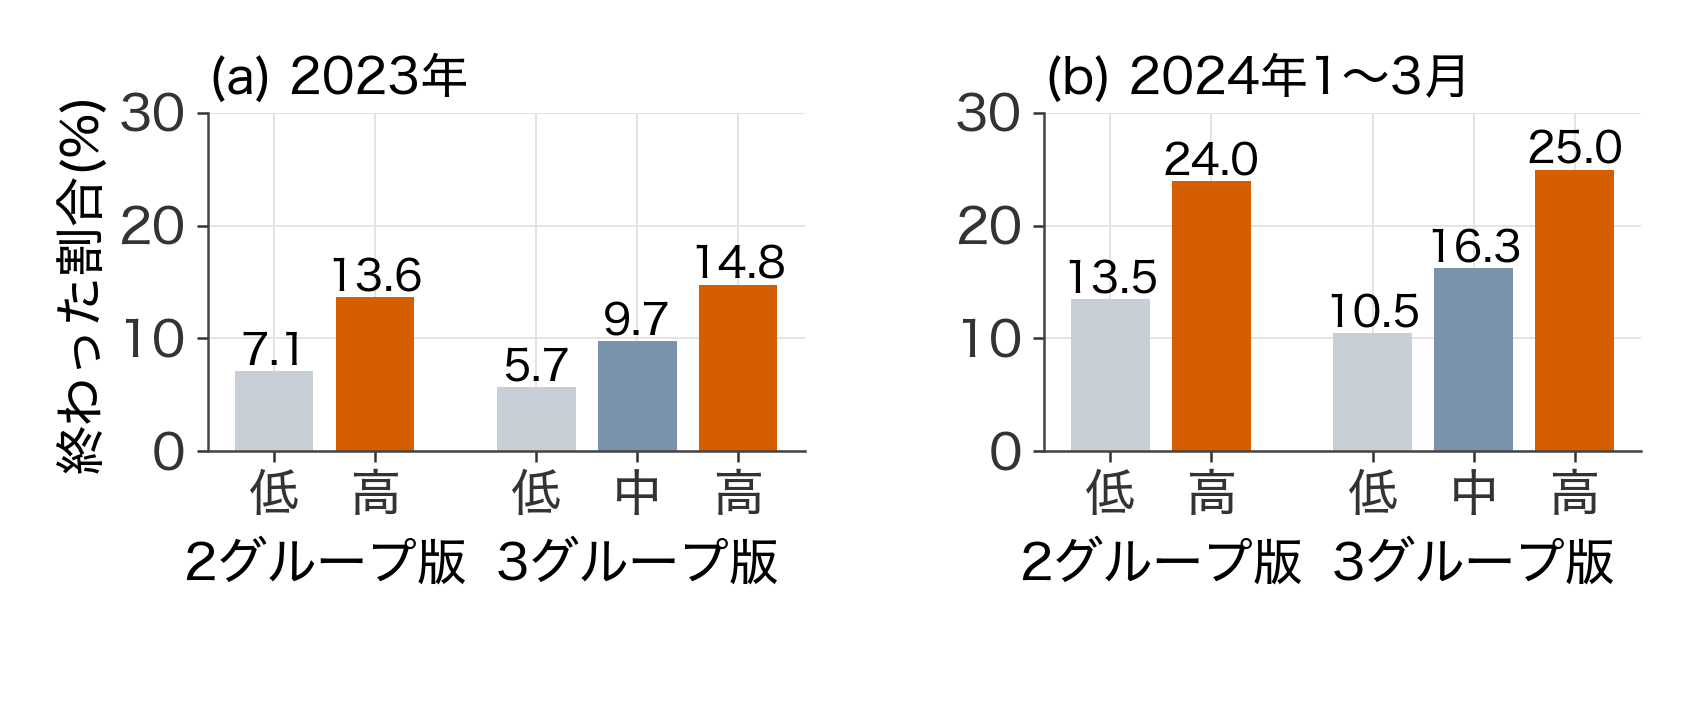
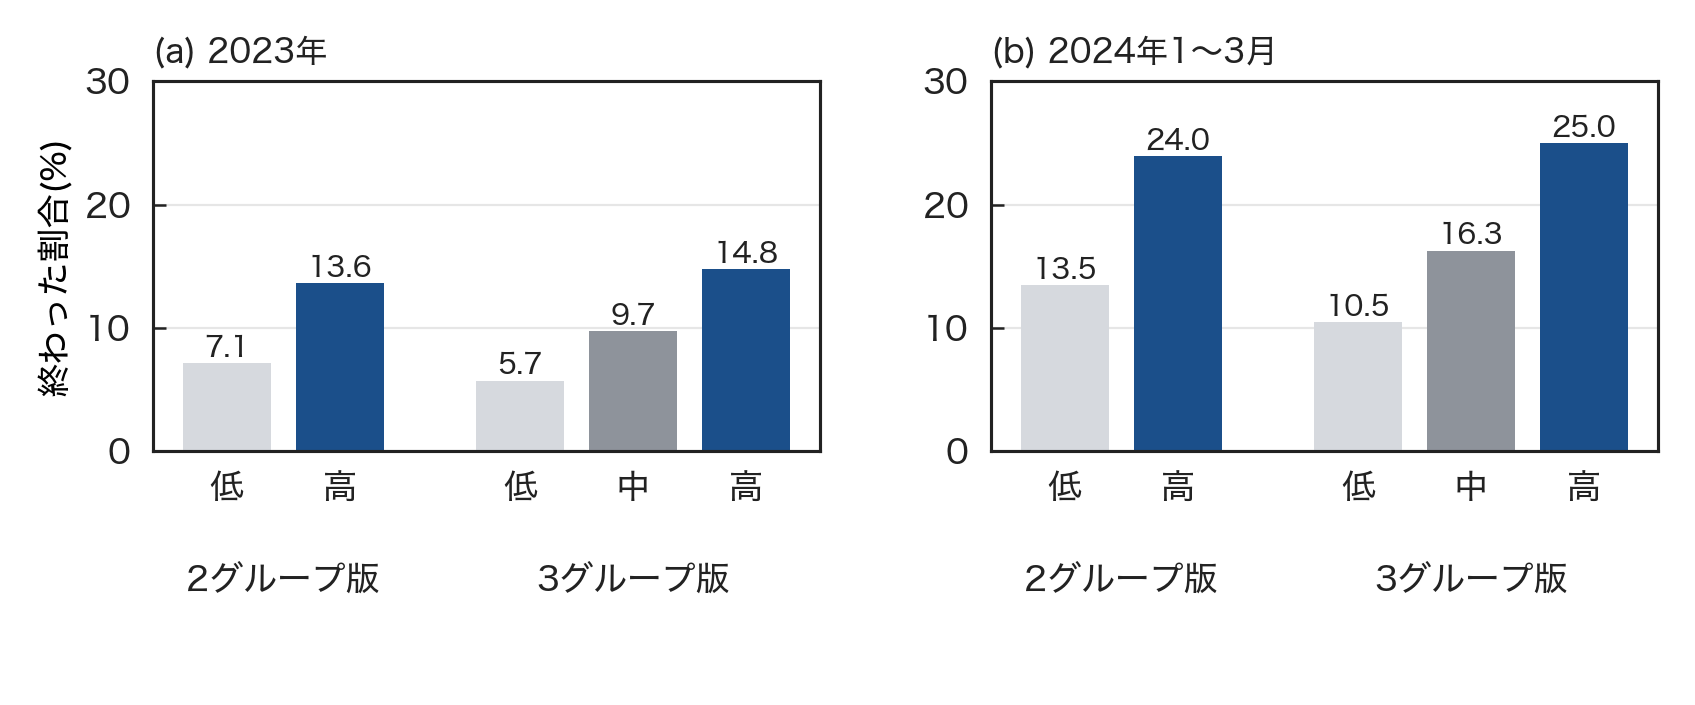
Restyle talk figures: boxed axes, grey + blue palette, uniform text size on slide
Talk-mode figures now use boxed axes with inward ticks, grey for comparisons
and a single blue accent, and scale font size per figure so text is about
30px on the slide for every figure.

diff --git a/Yamamoto/room_level/analysis/31_slide_figures.py b/Yamamoto/room_level/analysis/31_slide_figures.py
@@ -54,15 +54,19 @@ SAVE_DPI = 150  # 保存の細かさ。発表用は大きく映すので 1.5 倍
 # 論文用の図は figures/、発表用は presentation/figures/ に出る。
 TALK = False
 FS = 1.0
-HI, BASE, PALE = "#D55E00", "#7A93AB", "#C8CFD6"
+HI, BASE, PALE = "#1B4F8A", "#8E939B", "#D6D9DE"  # 発表用: 強調=濃い青(スライドの紫と区別する)、比較=灰色(彩度の高い色は使わない)
 
 
 def set_talk(on: bool = True) -> None:
     global TALK, FS, FIG, SAVE_DPI
-    TALK, FS = on, (1.3 if on else 1.0)
+    TALK, FS = on, (1.0 if on else 1.0)
     SAVE_DPI = 225 if on else 150
     if on:
-        plt.rcParams.update({"font.size": 16, "axes.labelsize": 16, "axes.titlesize": 16, "xtick.labelsize": 16, "ytick.labelsize": 16, "legend.fontsize": 15})
+        plt.rcParams.update({"font.size": 12.5, "axes.labelsize": 12.5, "axes.titlesize": 12.5, "xtick.labelsize": 12.5, "ytick.labelsize": 12.5, "legend.fontsize": 12})
+        plt.rcParams.update({"axes.spines.top": True, "axes.spines.right": True, "axes.edgecolor": "#222222", "axes.linewidth": 1.0,
+                             "axes.grid": True, "axes.grid.axis": "y", "grid.color": "#E6E6E6", "grid.linewidth": 0.7,
+                             "xtick.direction": "in", "ytick.direction": "in", "xtick.top": False, "ytick.right": False,
+                             "xtick.major.size": 4, "ytick.major.size": 4, "xtick.major.pad": 7, "ytick.major.pad": 7, "xtick.color": "#222222", "ytick.color": "#222222", "text.color": "#222222"})
         FIG = HERE / "presentation" / "figures"
         FIG.mkdir(parents=True, exist_ok=True)
 NUMS: list[dict] = []
@@ -72,7 +76,17 @@ def note(fig_name: str, item: str, value: float) -> None:
     NUMS.append({"図": fig_name, "項目": item, "値": float(value)})
 
 
+# スライドに貼る幅(px、1920幅のスライド)。図の幅(150dpiでのpx)から引く。どの図も、スライド上で同じ大きさの文字(約30px)になるようにする
+DISPLAY_W = {1664: 1664, 1100: 1590, 1130: 1491, 900: 1118, 1000: 1292, 860: 1094, 700: 765}
+TARGET_PX = 30
+
+
 def new(w: int, h: int, ncols: int = 1, ratios=None):
+    global FS
+    if TALK:
+        pt = TARGET_PX / (DISPLAY_W.get(w, w) / w) * 72 / 150
+        FS = pt / 12.5
+        plt.rcParams.update({"font.size": pt, "axes.labelsize": pt, "axes.titlesize": pt, "xtick.labelsize": pt, "ytick.labelsize": pt, "legend.fontsize": pt * 0.96})
     return plt.subplots(1, ncols, figsize=(w / DPI, h / DPI), gridspec_kw={"width_ratios": ratios} if ratios else None)
 
 
@@ -169,7 +183,7 @@ def fig_duration() -> None:
     if TALK:
         for t, dx, dy in [(7, 6, -9), (30, 6, -10), (90, 6, -10)]:
             b.plot([t], [100 * ended(t)], "o", color=HI, ms=9)
-            b.annotate(f"{t}日: {100 * ended(t):.0f}%", (t, 100 * ended(t)), xytext=(t + dx, 100 * ended(t) + dy), fontsize=17, color=HI)
+            b.annotate(f"{t}日: {100 * ended(t):.0f}%", (t, 100 * ended(t)), xytext=(t + dx, 100 * ended(t) + dy), fontsize=13 * FS, color=HI)
     for t in (7, 30, 90):
         b.plot([t, t], [0, 100 * ended(t)], color="#999999", lw=0.8, ls=":")
         b.plot([0, t], [100 * ended(t)] * 2, color="#999999", lw=0.8, ls=":")
@@ -198,7 +212,7 @@ def fig_roc(c23: pd.DataFrame) -> None:
     ax.fill_between(x, yy, color=HI if TALK else MIDC, alpha=0.16 if TALK else 0.18, lw=0)
     ax.plot(x, yy, color=HI if TALK else DARK, lw=2.6 if TALK else 1.8)
     if TALK:
-        ax.text(0.42, 0.2, f"面積 = AUC\n= {a_:.3f}", fontsize=22, color=HI)
+        ax.text(0.42, 0.2, f"面積 = AUC\n= {a_:.3f}", fontsize=17 * FS, color=HI)
     ax.plot([0, 1], [0, 1], color="#777777", ls="--", lw=1.0)
     ax.set_xlim(0, 1)
     ax.set_ylim(0, 1)
@@ -370,7 +384,7 @@ def fig_levels(c22: pd.DataFrame, c23: pd.DataFrame, c24: pd.DataFrame) -> None:
     b.set_xticks([0, 1])
     b.set_xticklabels(["2023年", "2024年1〜3月"])
     b.set_ylabel("AUC(全物件)")
-    b.legend(loc="upper right", fontsize=10.5 * FS if not TALK else 14, ncol=2, columnspacing=1.0, handletextpad=0.4)
+    b.legend(loc="upper right", fontsize=10.5 * FS if not TALK else 11.5 * FS, ncol=2, columnspacing=1.0, handletextpad=0.4)
     fig.tight_layout()
     save(fig, "31c2_levels_auc.png")
 
@@ -403,7 +417,7 @@ def fig_boundary(c22: pd.DataFrame, c23: pd.DataFrame) -> None:
     a.set_xlim(5, 30)
     a.set_ylim(0, 3.2)
     a.set_xticks([5, 10, 15, 20, 25, 30])
-    a.set_xlabel("線(7日以内の確率が何%以上を上のグループにするか)" if not TALK else "線: 7日以内の確率が何%以上を「上」にするか", fontsize=12 * FS if not TALK else 16)
+    a.set_xlabel("線(7日以内の確率が何%以上を上のグループにするか)" if not TALK else "線: 7日以内の確率が何%以上を「上」にするか", fontsize=12 * FS if not TALK else 12.5 * FS)
     a.set_ylabel("効き目(100組あたり)" if not TALK else "効き目")
     a.legend(loc="upper right")
     fig.tight_layout()
@@ -464,6 +478,9 @@ def fig_result2023(c23: pd.DataFrame) -> None:
     b.set_yticks(range(2))
     b.set_yticklabels(list(ws))
     b.set_xlim(0, 9)
+    if TALK:
+        b.grid(axis="x", visible=True)
+        b.grid(axis="y", visible=False)
     b.set_ylim(-0.6, 1.6)
     b.set_xlabel("高と低の差(ポイント)")
     panel(b, "(b)")
@@ -522,12 +539,15 @@ def fig_baselines(c22: pd.DataFrame, c23: pd.DataFrame) -> None:
     for i, (k, gap, lo, hi_) in enumerate(rows):
         ax.barh(i, gap, 0.6, color=(HI if k == "今回の方法" else BASE) if TALK else MIDC)
         if TALK and k in ("今回の方法", "3つの条件を組み合わせた集計"):
-            ax.text(hi_ + 0.2, i, f"{gap:+.1f}", va="center", fontsize=17, color=HI if k == "今回の方法" else "#333333")
+            ax.text(hi_ + 0.2, i, f"{gap:+.1f}", va="center", fontsize=13 * FS, color=HI if k == "今回の方法" else "#333333")
         dot_ci(ax, i, gap, lo, hi_, marker="none", color="#222222", vertical=False)
     ax.set_yticks(range(len(rows)))
     ax.set_yticklabels([r[0] for r in rows])
     ax.axvline(0, color="#222222", lw=0.8)
-    ax.set_xlim(-1.5, 10 if TALK else 9)
+    ax.set_xlim(-1.5, 11.5 if TALK else 9)
+    if TALK:
+        ax.grid(axis="x", visible=True)
+        ax.grid(axis="y", visible=False)
     ax.set_xlabel("高と低の差(ポイント)")
     fig.tight_layout()
     save(fig, "31e_baselines.png")
@@ -573,10 +593,10 @@ def fig_scope() -> None:
     a.set_xlim(-0.6, 5.0)
     a.set_ylim(0.49, 0.60)
     a.set_xticks(xs)
-    a.set_xticklabels([n for n, _ in items], fontsize=(10.5 * FS if not TALK else 12.5))
+    a.set_xticklabels([n for n, _ in items], fontsize=(10.5 * FS if not TALK else 11 * FS))
     a.set_ylabel("AUC")
     if TALK:
-        a.set_xlabel("学習に使った地域\n(左の3つは国分寺市を含み、右の2つは含まない)", fontsize=13)
+        a.set_xlabel("学習に使った地域\n(左の3つは国分寺市を含み、右の2つは含まない)", fontsize=11 * FS)
     fig.tight_layout()
     save(fig, "31n_scope.png")
 
